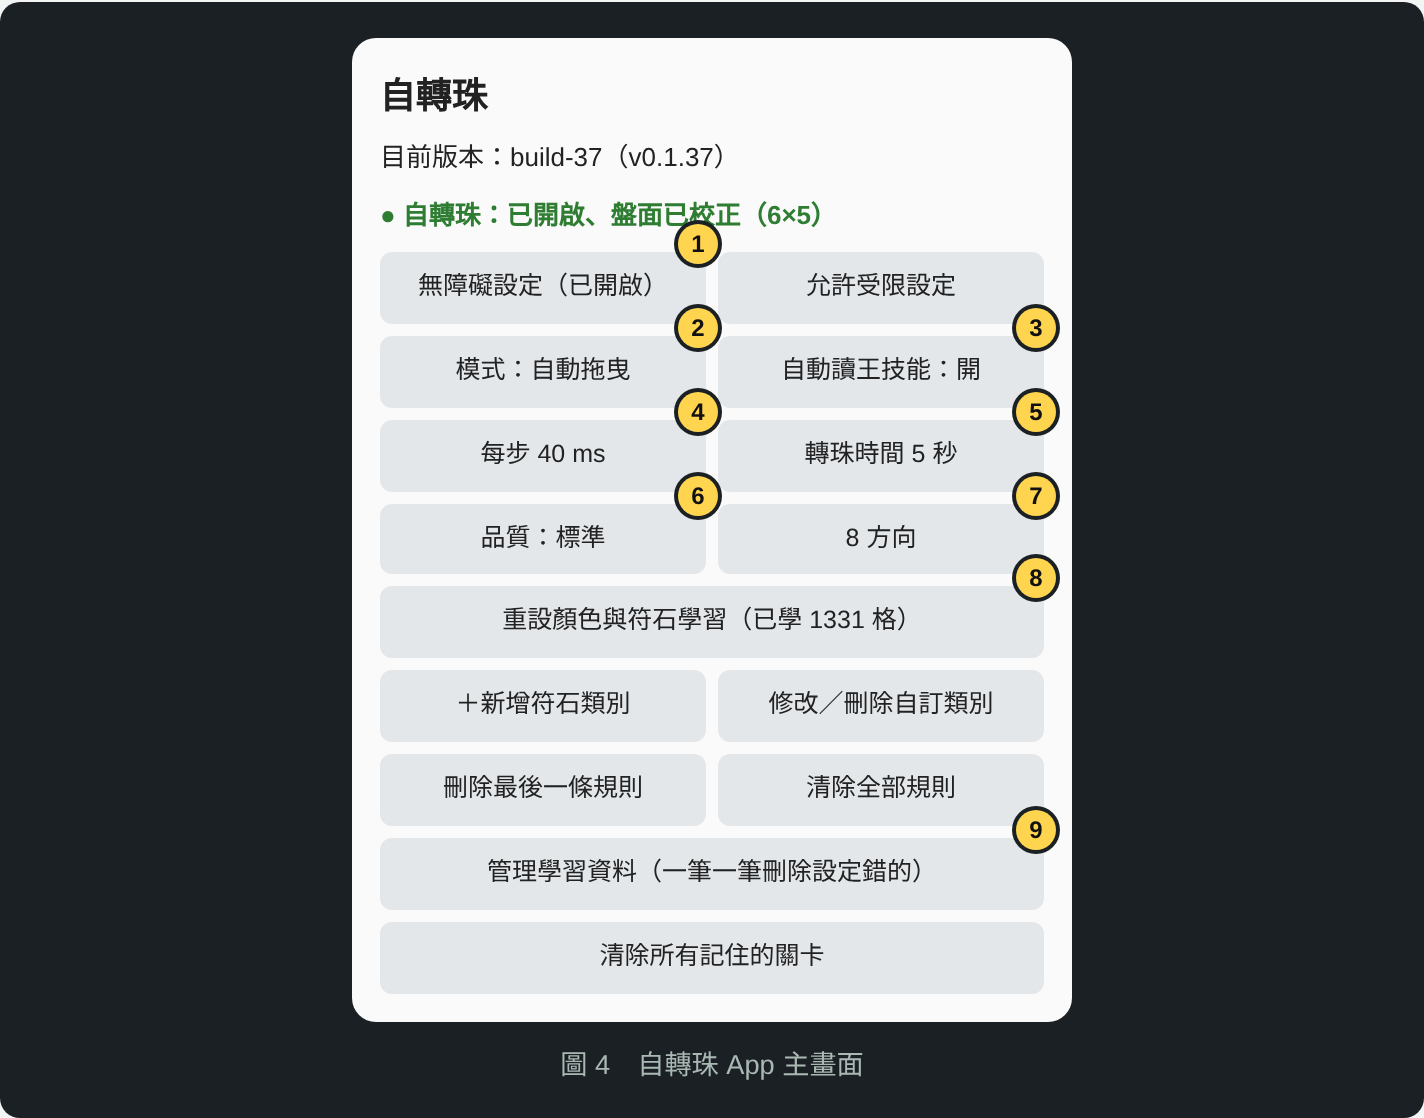
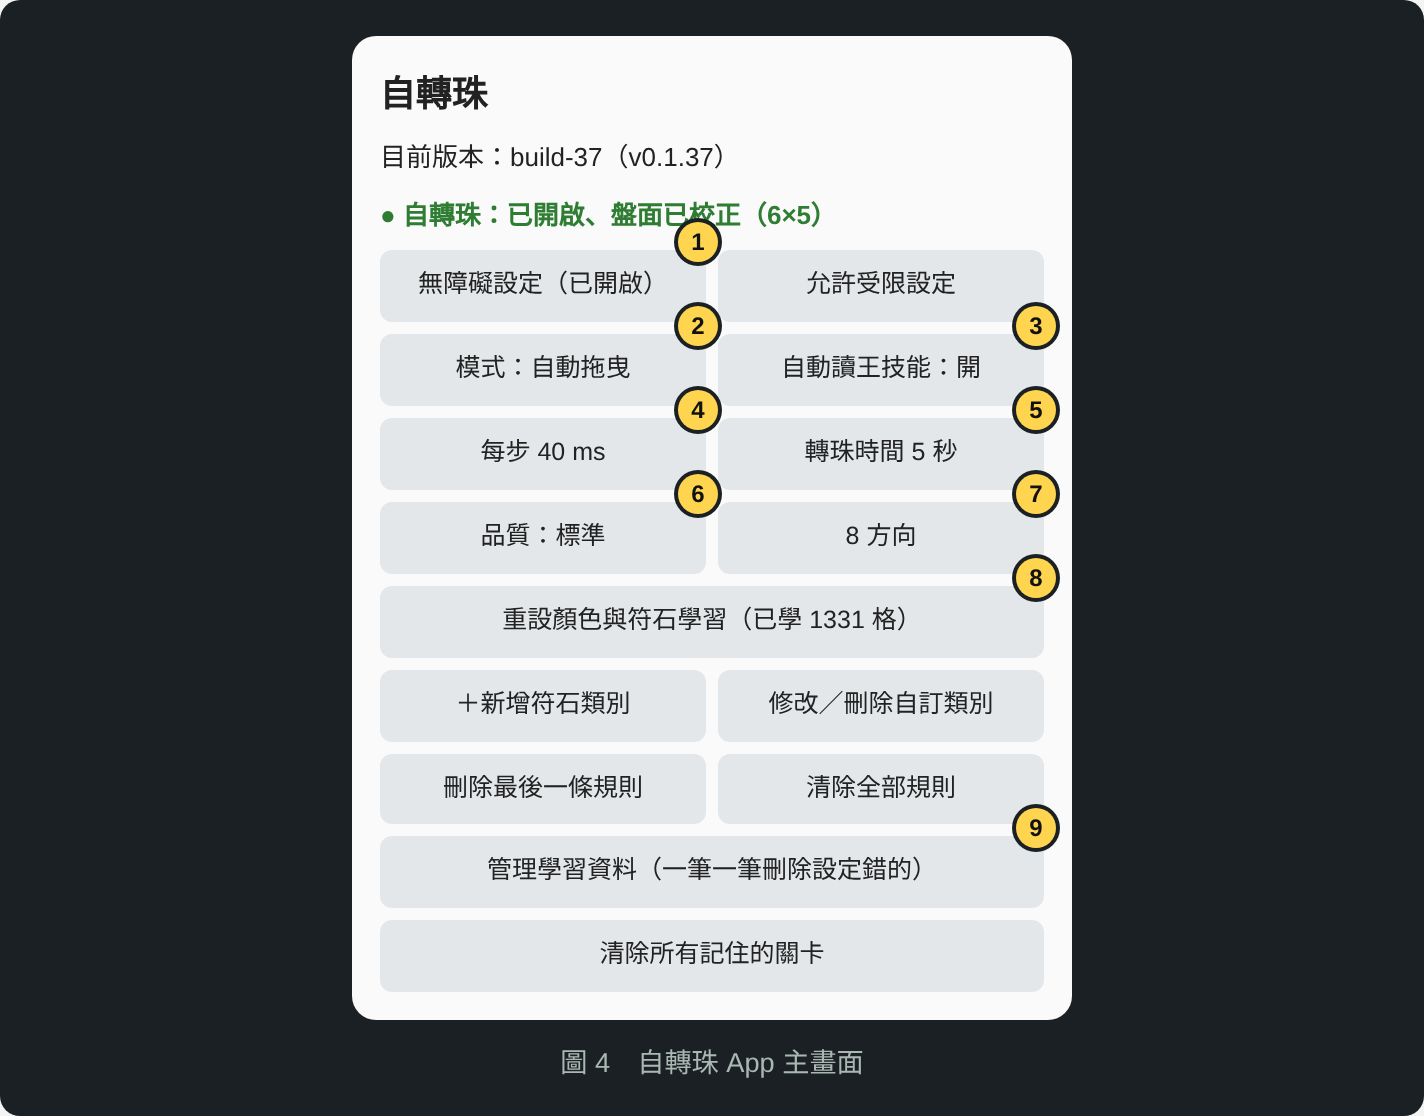
必消標記相信使用者（沒把握的顏色也照消）；新增「不碰(點珠)」筆刷；手冊更新
Claude-Session: https://claude.ai/code/session_01AGXjXY2LNR3th9Q39c3Vpn

diff --git a/docs/manual/manual.html b/docs/manual/manual.html
@@ -117,7 +117,7 @@ figcaption { font-size: .85rem; color: #a9b8b2; margin-top: 10px; text-align: ce
 <header>
   <h1>自轉珠 操作手冊</h1>
   <p class="lead">自動轉珠：浮動工作列、自動判斷盤面與關卡條件、越玩越準。</p>
-  <span class="ver">對應版本：build-37（v0.1.37）以上</span>
+  <span class="ver">對應版本：build-41（v0.1.41）以上</span>
   <nav class="toc" aria-label="目錄">
     <a href="#start">第一次使用</a><a href="#bar">工作列</a><a href="#auto">自動執行</a><a href="#calib">校：校正盤面</a>
     <a href="#stage">關：關卡條件</a><a href="#types">符石類別</a><a href="#rules">＋：點擊規則</a><a href="#app">App 設定</a><a href="#faq">常見問題</a>
@@ -242,8 +242,8 @@ figcaption { font-size: .85rem; color: #a9b8b2; margin-top: 10px; text-align: ce
     <div class="prow" style="grid-template-columns:repeat(3,1fr)">
       <div class="pbtn">裂痕</div><div class="pbtn">起點(綠)</div><div class="pbtn">終點(紅)</div>
     </div>
-    <div class="prow" style="grid-template-columns:repeat(2,1fr)">
-      <div class="pbtn">必消(點珠)</div><div class="pbtn">不消(點珠)</div>
+    <div class="prow" style="grid-template-columns:repeat(3,1fr)">
+      <div class="pbtn">必消(點珠)</div><div class="pbtn">不消(點珠)</div><div class="pbtn">不碰(點珠)</div>
     </div>
     <div class="prow" style="grid-template-columns:repeat(3,1fr)">
       <div class="pbtn">Combo盾：無</div><div class="pbtn">首消Combo：無</div><div class="pbtn">首消每組3顆：關</div>
@@ -269,7 +269,7 @@ figcaption { font-size: .85rem; color: #a9b8b2; margin-top: 10px; text-align: ce
     <span><i class="sw" style="background:#000;border-radius:50%"></i>黑洞（不能停）</span>
     <span><i class="sw" style="color:#ddd;display:grid;place-items:center">✕</i>裂痕</span>
     <span><i class="dot" style="background:#00c853;width:20px;height:20px;font-size:10px">起</i><i class="dot" style="background:#d50000;width:20px;height:20px;font-size:10px">終</i>起點／終點</span>
-    <span><i class="dot" style="background:#2962ff;width:20px;height:20px;font-size:10px">必</i><i class="dot" style="background:#616161;width:20px;height:20px;font-size:10px">禁</i>必消／不消的珠子</span>
+    <span><i class="dot" style="background:#2962ff;width:20px;height:20px;font-size:10px">必</i><i class="dot" style="background:#616161;width:20px;height:20px;font-size:10px">禁</i><i class="dot" style="background:#e65100;width:20px;height:20px;font-size:10px">避</i>必消／不消／不碰的珠子</span>
   </div>
   <div class="tipbox" aria-live="polite"><span class="hint0">點筆刷、盾按鈕、顏色或盤面上的標記，這裡會顯示說明。</span></div>
   <figcaption>圖 3　關卡面板（上）與盤面標記（下）</figcaption>
@@ -285,8 +285,9 @@ figcaption { font-size: .85rem; color: #a9b8b2; margin-top: 10px; text-align: ce
   <tr><td>黑洞(不停)</td><td>最後一步不能停在這格。</td><td>記住</td></tr>
   <tr><td>裂痕</td><td>回合結束時停在這個<b>位置</b>的珠子不能被消除。可以經過，跟珠子種類無關。</td><td>記住</td></tr>
   <tr><td>起點(綠)／終點(紅)</td><td>綠紅漩渦：一定要從綠格出發、停在紅格。</td><td>記住</td></tr>
-  <tr><td>必消(點珠)</td><td>點到的<b>這顆珠</b>這回合一定要消掉，顯示藍色「必」。</td><td><b>只用這一回合</b></td></tr>
+  <tr><td>必消(點珠)</td><td>點到的<b>這顆珠</b>這回合一定要消掉，顯示藍色「必」。就算程式沒把握它的顏色，也會照最可能的顏色去消；它本來不能碰（例如觸電）的話，就不碰它、靠旁邊湊三連消掉。</td><td><b>只用這一回合</b></td></tr>
   <tr><td>不消(點珠)</td><td>點到的<b>這顆珠</b>這回合不能消，顯示灰色「禁」。</td><td><b>只用這一回合</b></td></tr>
+  <tr><td>不碰(點珠)</td><td>點到的<b>這顆珠</b>不能碰：路徑不能經過、不能從它開始，顯示橘色「避」。它還是可以被旁邊的珠子湊成三連消掉。</td><td><b>只用這一回合</b></td></tr>
 </table></div>
 
 <h3>盾與條件按鈕</h3>
@@ -432,6 +433,7 @@ figcaption { font-size: .85rem; color: #a9b8b2; margin-top: 10px; text-align: ce
     if (i === 29) d.innerHTML += '<i class="circ" style="background:#d50000">終</i>';
     if (i === 14) d.innerHTML += '<i class="circ" style="background:#2962ff;right:0;top:0">必</i>';
     if (i === 16) d.innerHTML += '<i class="circ" style="background:#616161;right:0;top:0">禁</i>';
+    if (i === 26) d.innerHTML += '<i class="circ" style="background:#e65100;left:0;top:0">避</i>';
     b2.appendChild(d);
   });
 
@@ -460,6 +462,7 @@ figcaption { font-size: .85rem; color: #a9b8b2; margin-top: 10px; text-align: ce
     "終點": "<b>終點(紅)筆刷</b>：紅漩渦，最後一步一定要停在這格。",
     "必消(點珠)": "<b>必消(點珠)筆刷</b>：點到的這顆珠這回合一定要消掉，顯示藍色「必」。只用這一回合，不會記住。",
     "不消(點珠)": "<b>不消(點珠)筆刷</b>：點到的這顆珠這回合不能消，顯示灰色「禁」。只用這一回合，不會記住。",
+    "不碰(點珠)": "<b>不碰(點珠)筆刷</b>：點到的這顆珠不能碰，路徑不能經過、不能從它開始，顯示橘色「避」。它還是可以被湊成三連消掉。只用這一回合。",
     "Combo盾": "<b>Combo盾</b>：整回合（含疊珠）至少 X combo。每按一下：無 → 5 → 6 → … → 12。",
     "首消Combo": "<b>首消Combo</b>：第一批「剛好」X combo。每按一下：無 → 1 → 2 → … → 10。設定時會自動打開「首消每組3顆」。",
     "首消每組3顆": "<b>首消每組3顆</b>：第一批每一組都只能剛好 3 顆，不能有 4 顆以上連成一組。允許 4 顆連珠的關卡可以關掉。",
@@ -526,6 +529,7 @@ figcaption { font-size: .85rem; color: #a9b8b2; margin-top: 10px; text-align: ce
     else if (i === 29) d.dataset.tip = TIPS["終點"];
     else if (i === 14) d.dataset.tip = TIPS["必消(點珠)"];
     else if (i === 16) d.dataset.tip = TIPS["不消(點珠)"];
+    else if (i === 26) d.dataset.tip = TIPS["不碰(點珠)"];
     else if (m) d.dataset.tip = MK[m];
     else d.dataset.tip = "<b>一般格子</b>：先選一支筆刷，再點格子就會標上；再點一次取消。";
   });

diff --git a/app/src/main/java/com/rcj811/tossolver/AutoTurnService.kt b/app/src/main/java/com/rcj811/tossolver/AutoTurnService.kt
@@ -127,7 +127,7 @@ class AutoTurnService : AccessibilityService() {
     private var rulesTapped = 0
 
     private fun dp(v: Int) = (v * resources.displayMetrics.density).toInt()
-    private fun toast(msg: String) = Toast.makeText(this, msg, Toast.LENGTH_SHORT).show()
+    private fun toast(msg: String) = Toast.makeText(this, msg, if (msg.length > 24) Toast.LENGTH_LONG else Toast.LENGTH_SHORT).show()
 
     // ---------------- 生命週期 ----------------
 
@@ -507,7 +507,7 @@ class AutoTurnService : AccessibilityService() {
             }
             if (unknown > 0) toast("$unknown 格無法辨識，路徑會避開它們")
             val go = {
-                val why = if (stage.isEmpty()) null else stage.firstBatchImpossible(rec.dissolvableColors())
+                val why = if (stage.isEmpty()) null else stage.firstBatchImpossible(feasColors(rec))
                 if (why != null) {
                     alertManual("$why，沒有轉珠，需要用角色技能轉珠或手動處理")
                     finishOnce(null)
@@ -531,6 +531,17 @@ class AutoTurnService : AccessibilityService() {
             updateBar()
             then()
         }
+    }
+
+    /** 判斷條件可不可能時用的顏色：標了必消的珠用辨識出的顏色、標了不消的當不能消 */
+    private fun feasColors(rec: Recognition): IntArray {
+        val c = rec.dissolvableColors()
+        for (i in c.indices) {
+            if (i >= StageRules.MAX_CELLS) break
+            if (stage.cellFlags[i] and StageRules.MUST_ORB != 0) c[i] = rec.colors[i]
+            if (stage.cellFlags[i] and StageRules.NO_ORB != 0) c[i] = -1
+        }
+        return c
     }
 
     private fun finishOnce(msg: String?) {
@@ -649,7 +660,7 @@ class AutoTurnService : AccessibilityService() {
                     withNum(clean ?: frame, geo) num@{
                     if (!running) { busy = false; updateBar(); return@num }
                     // 真的過不了：首消條件在這盤數學上不可能（例如首消≥8組屬性且不能消水），立即交給使用者
-                    val why = if (stage.isEmpty()) null else stage.firstBatchImpossible(rec.dissolvableColors())
+                    val why = if (stage.isEmpty()) null else stage.firstBatchImpossible(feasColors(rec))
                     if (why != null) {
                         busy = false
                         alertManual("$why，需要用角色技能轉珠。已停止，請手動處理")
@@ -1006,7 +1017,7 @@ class AutoTurnService : AccessibilityService() {
         }
 
         // 筆刷：點盤面格子時要設定的機制
-        val brushNames = arrayOf("拼圖盾", "燃燒(不碰)", "火焰區(終點)", "黑洞(不停)", "裂痕", "起點(綠)", "終點(紅)", "必消(點珠)", "不消(點珠)")
+        val brushNames = arrayOf("拼圖盾", "燃燒(不碰)", "火焰區(終點)", "黑洞(不停)", "裂痕", "起點(綠)", "終點(紅)", "必消(點珠)", "不消(點珠)", "不碰(點珠)")
         val brushButtons = ArrayList<Button>()
         var brush = 0
         fun paintBrushes() {
@@ -1024,6 +1035,7 @@ class AutoTurnService : AccessibilityService() {
                 5 -> edit.green = if (edit.green == i) -1 else i
                 6 -> edit.red = if (edit.red == i) -1 else i
                 7 -> { edit.toggle(i, StageRules.MUST_ORB); if (edit.cellFlags[i] and StageRules.MUST_ORB != 0) edit.cellFlags[i] = edit.cellFlags[i] and StageRules.NO_ORB.inv() }
+                9 -> edit.toggle(i, StageRules.NOTOUCH_ORB)
                 8 -> { edit.toggle(i, StageRules.NO_ORB); if (edit.cellFlags[i] and StageRules.NO_ORB != 0) edit.cellFlags[i] = edit.cellFlags[i] and StageRules.MUST_ORB.inv() }
             }
             refresh()
@@ -1089,7 +1101,7 @@ class AutoTurnService : AccessibilityService() {
         panel.addView(summary)
         panel.addView(rowOf(brushButtons[0], brushButtons[1], brushButtons[2], brushButtons[3]))
         panel.addView(rowOf(brushButtons[4], brushButtons[5], brushButtons[6]))
-        panel.addView(rowOf(brushButtons[7], brushButtons[8]))
+        panel.addView(rowOf(brushButtons[7], brushButtons[8], brushButtons[9]))
         panel.addView(rowOf(comboBtn, firstBtn, threeBtn))
         panel.addView(rowOf(attrBtn, orbsBtn))
         panel.addView(rowOf(stickyBtn, fireBtn))

diff --git a/app/src/main/java/com/rcj811/tossolver/StageRules.kt b/app/src/main/java/com/rcj811/tossolver/StageRules.kt
@@ -19,7 +19,8 @@ class StageRules {
         const val BLACK_HOLE = 16   // 黑洞（最後一步不能停在這）
         const val MUST_ORB = 32     // 自點必消：這一格目前的珠子這回合一定要消掉（只用在這一盤）
         const val NO_ORB = 64       // 自點不消：這一格目前的珠子這回合不能消（只用在這一盤）
-        const val ORB_MARKS = MUST_ORB or NO_ORB
+        const val NOTOUCH_ORB = 128 // 自點不碰：這一格目前的珠子不能碰（路徑不能經過、不能當起點；只用在這一盤）
+        const val ORB_MARKS = MUST_ORB or NO_ORB or NOTOUCH_ORB
 
         val ORB_SHORT = arrayOf("火", "水", "木", "光", "暗", "心")
     }
@@ -53,8 +54,10 @@ class StageRules {
     fun applyOrbMarks(cells: IntArray) {
         for (i in cells.indices) {
             if (i >= MAX_CELLS) break
-            if (cellFlags[i] and MUST_ORB != 0) cells[i] = cells[i] or 0x10
+            // 必消：相信使用者的標記，就算顏色沒把握也照最可能的顏色消（拿掉「不能消除」）；原本不能碰的仍然不碰
+            if (cellFlags[i] and MUST_ORB != 0) cells[i] = (cells[i] and 0x20.inv()) or 0x10
             if (cellFlags[i] and NO_ORB != 0) cells[i] = cells[i] or 0x20
+            if (cellFlags[i] and NOTOUCH_ORB != 0) cells[i] = cells[i] or 0x40
         }
     }
 
@@ -109,6 +112,7 @@ class StageRules {
         if (count(BLACK_HOLE) > 0) parts.add("黑洞 ${count(BLACK_HOLE)}")
         if (count(MUST_ORB) > 0) parts.add("必消珠 ${count(MUST_ORB)} 顆")
         if (count(NO_ORB) > 0) parts.add("不消珠 ${count(NO_ORB)} 顆")
+        if (count(NOTOUCH_ORB) > 0) parts.add("不碰珠 ${count(NOTOUCH_ORB)} 顆")
         if (count(CRACK) > 0) parts.add("裂痕 ${count(CRACK)}")
         if (green >= 0 || red >= 0) parts.add("漩渦")
         if (sticky) parts.add("黏手路徑")

diff --git a/app/src/test/java/com/rcj811/tossolver/StageRulesTest.kt b/app/src/test/java/com/rcj811/tossolver/StageRulesTest.kt
@@ -83,6 +83,19 @@ class StageRulesTest {
     }
 
     @Test
+    fun mustMarkOverridesUnsureAndNoTouch() {
+        val r = StageRules().apply { toggle(0, StageRules.MUST_ORB); toggle(1, StageRules.NOTOUCH_ORB); toggle(2, StageRules.MUST_ORB) }
+        val cells = intArrayOf(3 or 0x60, 2, 1 or 0x40) + IntArray(27) { it % 6 }
+        r.applyOrbMarks(cells)
+        assertEquals(3 or 0x40 or 0x10, cells[0])   // 沒把握的珠標必消：拿掉不能消、保留不能碰
+        assertEquals(2 or 0x40, cells[1])           // 不碰(點珠)
+        assertEquals(1 or 0x40 or 0x10, cells[2])   // 觸電類：不碰但要消
+        assertEquals(0, r.toInts()[13])
+        assertTrue(r.withoutOrbMarks().isEmpty())
+        assertTrue(r.summary().contains("不碰珠 1 顆"))
+    }
+
+    @Test
     fun tappedOrbMarks() {
         val r = StageRules().apply { toggle(0, StageRules.MUST_ORB); toggle(5, StageRules.NO_ORB); firstOrbsExact = 12 }
         val cells = IntArray(30) { it % 6 }

diff --git a/app/src/main/java/com/rcj811/tossolver/OverlayViews.kt b/app/src/main/java/com/rcj811/tossolver/OverlayViews.kt
@@ -262,6 +262,11 @@ class StageRulesView(context: Context) : View(context) {
                 canvas.drawCircle(x + s * 0.78f, y + s * 0.22f, s * 0.18f, fill)
                 canvas.drawText("禁", x + s * 0.78f, y + s * 0.32f, text)
             }
+            if (f and StageRules.NOTOUCH_ORB != 0) {
+                fill.color = Color.parseColor("#E65100")
+                canvas.drawCircle(x + s * 0.22f, y + s * 0.22f, s * 0.18f, fill)
+                canvas.drawText("避", x + s * 0.22f, y + s * 0.32f, text)
+            }
             if (i == rules.green) {
                 fill.color = Color.parseColor("#00C853")
                 canvas.drawCircle(x + s / 2, y + s / 2, s * 0.25f, fill)

diff --git a/docs/manual/MANUAL.md b/docs/manual/MANUAL.md
@@ -2,7 +2,7 @@
 
 自動轉珠：浮動工作列、自動判斷盤面與關卡條件、越玩越準。
 
-**對應版本：build-37（v0.1.37）以上**
+**對應版本：build-41（v0.1.41）以上**
 
 > ⚠ **使用前請注意**：自動操作遊戲可能違反遊戲的使用條款，帳號有被停權的風險，請自行斟酌使用。
 
@@ -107,8 +107,9 @@ Android 11 以上才能自動截圖、自動轉珠。Android 10 以下只能用 
 | 黑洞(不停)（黑色圓點） | 最後一步不能停在這格。 | 記住 |
 | 裂痕（✕） | 回合結束時停在這個**位置**的珠子不能被消除。可以經過，跟珠子種類無關。 | 記住 |
 | 起點(綠)／終點(紅) | 綠紅漩渦：一定要從綠格出發、停在紅格。 | 記住 |
-| 必消(點珠)（藍色「必」） | 點到的**這顆珠**這回合一定要消掉。 | **只用這一回合** |
+| 必消(點珠)（藍色「必」） | 點到的**這顆珠**這回合一定要消掉。就算程式沒把握它的顏色，也會照最可能的顏色去消；它本來不能碰（例如觸電）的話，就不碰它、靠旁邊湊三連消掉。 | **只用這一回合** |
 | 不消(點珠)（灰色「禁」） | 點到的**這顆珠**這回合不能消。 | **只用這一回合** |
+| 不碰(點珠)（橘色「避」） | 點到的**這顆珠**不能碰：路徑不能經過、不能從它開始。它還是可以被旁邊的珠子湊成三連消掉。 | **只用這一回合** |
 
 ### 盾與條件按鈕
 
